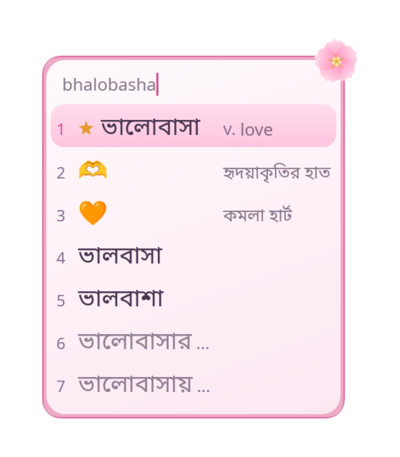
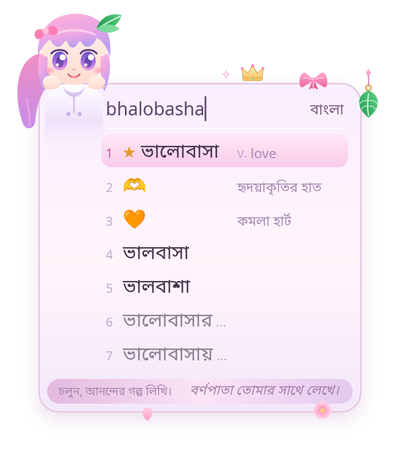
feat(render): Pata, an original mascot for the Sakura theme
- a vector character peeks over the corner of the window, with a hanging leaf charm, a bow, a crown, a sparkle, petals and a ribbon of Bangla
- the left padding of 60 is her room; the mode label shows বাংলা or EN
- built-in themes embedded their images by an explicit list, so the new files were missing in the real window; a test now compares each list with the directory
- the preview example also draws a horizontal frame

Changed region(s): [[0.03, 0.031, 0.96, 0.9313], [0.18, 0.4346, 0.27, 0.4967], [0.15, 0.4656, 0.18, 0.4967]]

diff --git a/crates/borno-render/src/theme/mod.rs b/crates/borno-render/src/theme/mod.rs
@@ -51,6 +51,26 @@ const BUILTINS: [(&str, &str, EmbeddedFiles); 5] = [
                 "images/petal.svg",
                 include_bytes!("../../themes/sakura/images/petal.svg"),
             ),
+            (
+                "images/character.svg",
+                include_bytes!("../../themes/sakura/images/character.svg"),
+            ),
+            (
+                "images/charm.svg",
+                include_bytes!("../../themes/sakura/images/charm.svg"),
+            ),
+            (
+                "images/bow.svg",
+                include_bytes!("../../themes/sakura/images/bow.svg"),
+            ),
+            (
+                "images/crown.svg",
+                include_bytes!("../../themes/sakura/images/crown.svg"),
+            ),
+            (
+                "images/sparkle.svg",
+                include_bytes!("../../themes/sakura/images/sparkle.svg"),
+            ),
         ],
     ),
     (
@@ -351,6 +371,33 @@ fn builtin_source(id: &str) -> Option<&'static str> {
 #[cfg(test)]
 mod tests {
     use super::*;
+
+    /// An image added to a theme directory but not listed in `BUILTINS` is silently missing in the real window, while
+    /// the directory-based preview still draws it.
+    #[test]
+    fn every_image_of_a_builtin_theme_is_embedded() {
+        for (id, _, embedded) in BUILTINS {
+            let directory = std::path::Path::new(env!("CARGO_MANIFEST_DIR"))
+                .join("themes")
+                .join(id)
+                .join("images");
+            let mut on_disk: Vec<String> = std::fs::read_dir(&directory)
+                .map(|entries| {
+                    entries
+                        .flatten()
+                        .map(|entry| format!("images/{}", entry.file_name().to_string_lossy()))
+                        .collect()
+                })
+                .unwrap_or_default();
+            let mut listed: Vec<String> = embedded
+                .iter()
+                .map(|(path, _)| (*path).to_owned())
+                .collect();
+            on_disk.sort();
+            listed.sort();
+            assert_eq!(listed, on_disk, "{id}");
+        }
+    }
 
     #[test]
     fn builtin_themes_parse_without_problems() {

diff --git a/crates/borno-render/src/preview/mod.rs b/crates/borno-render/src/preview/mod.rs
@@ -14,7 +14,7 @@ use crate::{FontLibrary, Frame, Layout, Renderer, Theme};
 /// Twice the point size, as sharp as a HiDPI screenshot.
 const SCALE: f32 = 2.0;
 
-/// Draws the vertical samples of `theme_dir` (and a dark one unless the theme locks its appearance) into
+/// Draws the vertical samples and one horizontal sample of `theme_dir` (and a dark one unless the theme locks its appearance) into
 /// `out_dir`, overwriting files of the same name. A picture that fails is recorded in its [`Shot`] and the rest are
 /// still drawn; only a theme that cannot be read or a font library that cannot be built fails the whole run.
 /// `family_files` finds font files of a system family by name, as the shell does when it loads theme fonts.
@@ -35,6 +35,7 @@ pub fn write_previews(
         ("completion.png", bangl(), Layout::Vertical, false),
         ("next-words.png", next_words(), Layout::Vertical, false),
         ("showcase.png", showcase(), Layout::Vertical, false),
+        ("horizontal.png", showcase(), Layout::Horizontal, false),
     ];
     if theme.locked_dark().is_none() {
         shots.push(("vertical-dark.png", shaping(), Layout::Vertical, true));

diff --git a/docs/design/candidate-window.md b/docs/design/candidate-window.md
@@ -40,7 +40,7 @@ Cost of the choice: the popup is placed at window origin + cursor rectangle, so 
 ## Themes
 
 - `bornopata`: white-to-mint card, radius 14, layered shadow, green highlight pill with a gradient, star for learned words, trailing ellipsis for completions, arrow for next-word suggestions, a `Tab` chip.
-- `sakura`: pink-and-lavender glass, a blossom hanging over the corner, two petals drifting down in a loop (the animation is why the window asks for repeated frames). Locked to light.
+- `sakura`: lavender glass with Pata, the Bornopata mascot, peeking over the top-left corner (an original vector character, `images/character.svg`, with the green leaf of the logo in her hair), a hanging leaf charm, a bow, a crown, blossoms and petals drifting in a loop (the animation is why the window asks for repeated frames), and a ribbon with two lines of Bangla. The left padding of 60 is her room. Locked to light. Built-in themes list their images in `src/theme/mod.rs`; a test fails when a file is not listed.
 - `shapla`: a cool water-lily card (the national flower of Bangladesh), white and pale teal, a lily in the top-right corner and two ripples spreading at the bottom. Locked to light.
 - `borsha`: a rainy-day card, blue-grey with squarer corners, a cloud in the corner and raindrops falling through the window. Locked to light.
 - `jonaki`: a night card, deep indigo with a gold border, a crescent moon in the corner and three fireflies drifting and glowing. Locked to dark.

diff --git a/docs/user/settings/themes.md b/docs/user/settings/themes.md
@@ -11,7 +11,7 @@ Set `theme` in `[panel]` of [the config file](config-file.md); the window change
 | Theme | Look |
 |---|---|
 | `bornopata` (default) | ![bornopata](images/theme-bornopata.png) Soft green and white. Has a dark variant (`dark = true`). |
-| `sakura` | ![sakura](images/theme-sakura.png) Pink with a two-tone border and a cherry blossom in the corner. Always light. |
+| `sakura` | ![sakura](images/theme-sakura.png) Lavender and pink, with Pata, the Bornopata mascot, peeking over the corner, a hanging leaf charm, falling petals and a ribbon that says "চলুন, আনন্দের গল্প লিখি।". Always light. |
 | `shapla` | ![shapla](images/theme-shapla.png) Mint and teal with a water lily (shapla), the national flower of Bangladesh. Always light. |
 | `borsha` | ![borsha](images/theme-borsha.png) Rain blue with a cloud. Always light. |
 | `jonaki` | ![jonaki](images/theme-jonaki.png) A night sky: deep blue with a moon and drifting fireflies (`jonaki`). Always dark. |

diff --git a/CHANGELOG.md b/CHANGELOG.md
@@ -4,6 +4,7 @@ Written by hand by the maintainers at release time; pull requests do not edit it
 
 ## Unreleased
 
+- The Sakura theme has a mascot: Pata peeks over the corner of the window, with a hanging leaf charm, a bow, a crown, petals and a ribbon of Bangla.
 - A new logo: a white ব with two leaves on green, in the settings program, the launcher entry, Fcitx5's list of input methods and the website.
 
 - Words the letters cannot spell are found too: `moddhe` gives মধ্যে, `porjonto` পর্যন্ত, `dukkho` দুঃখ.
